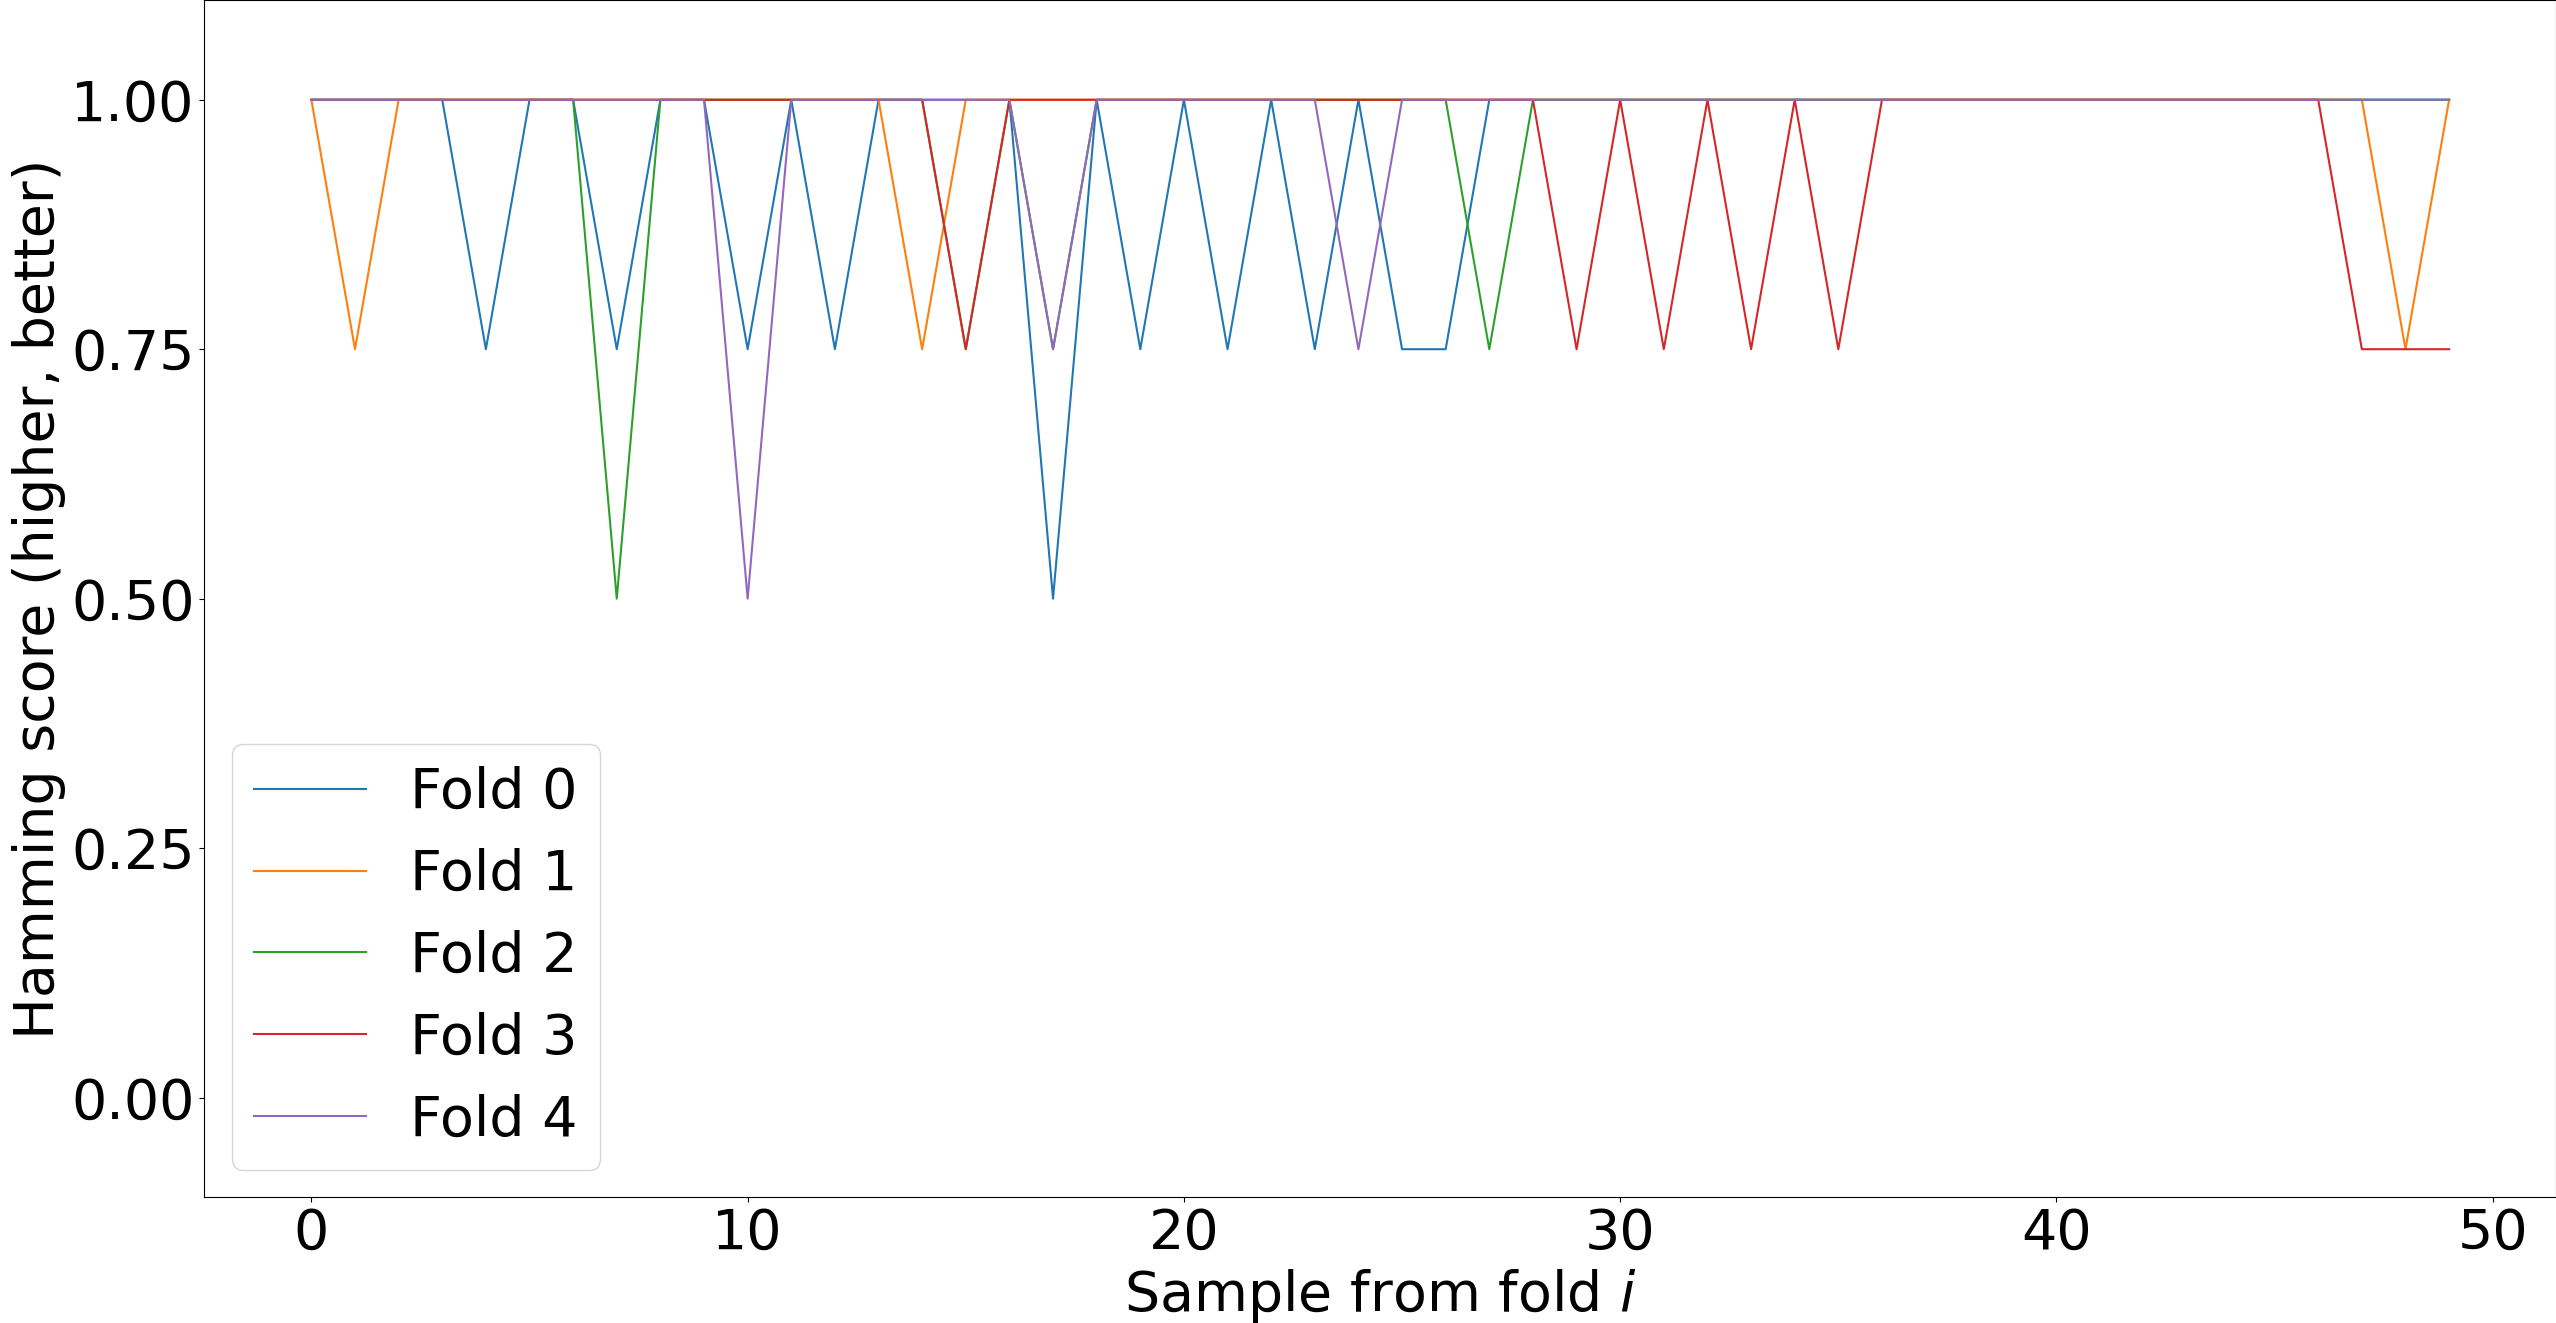
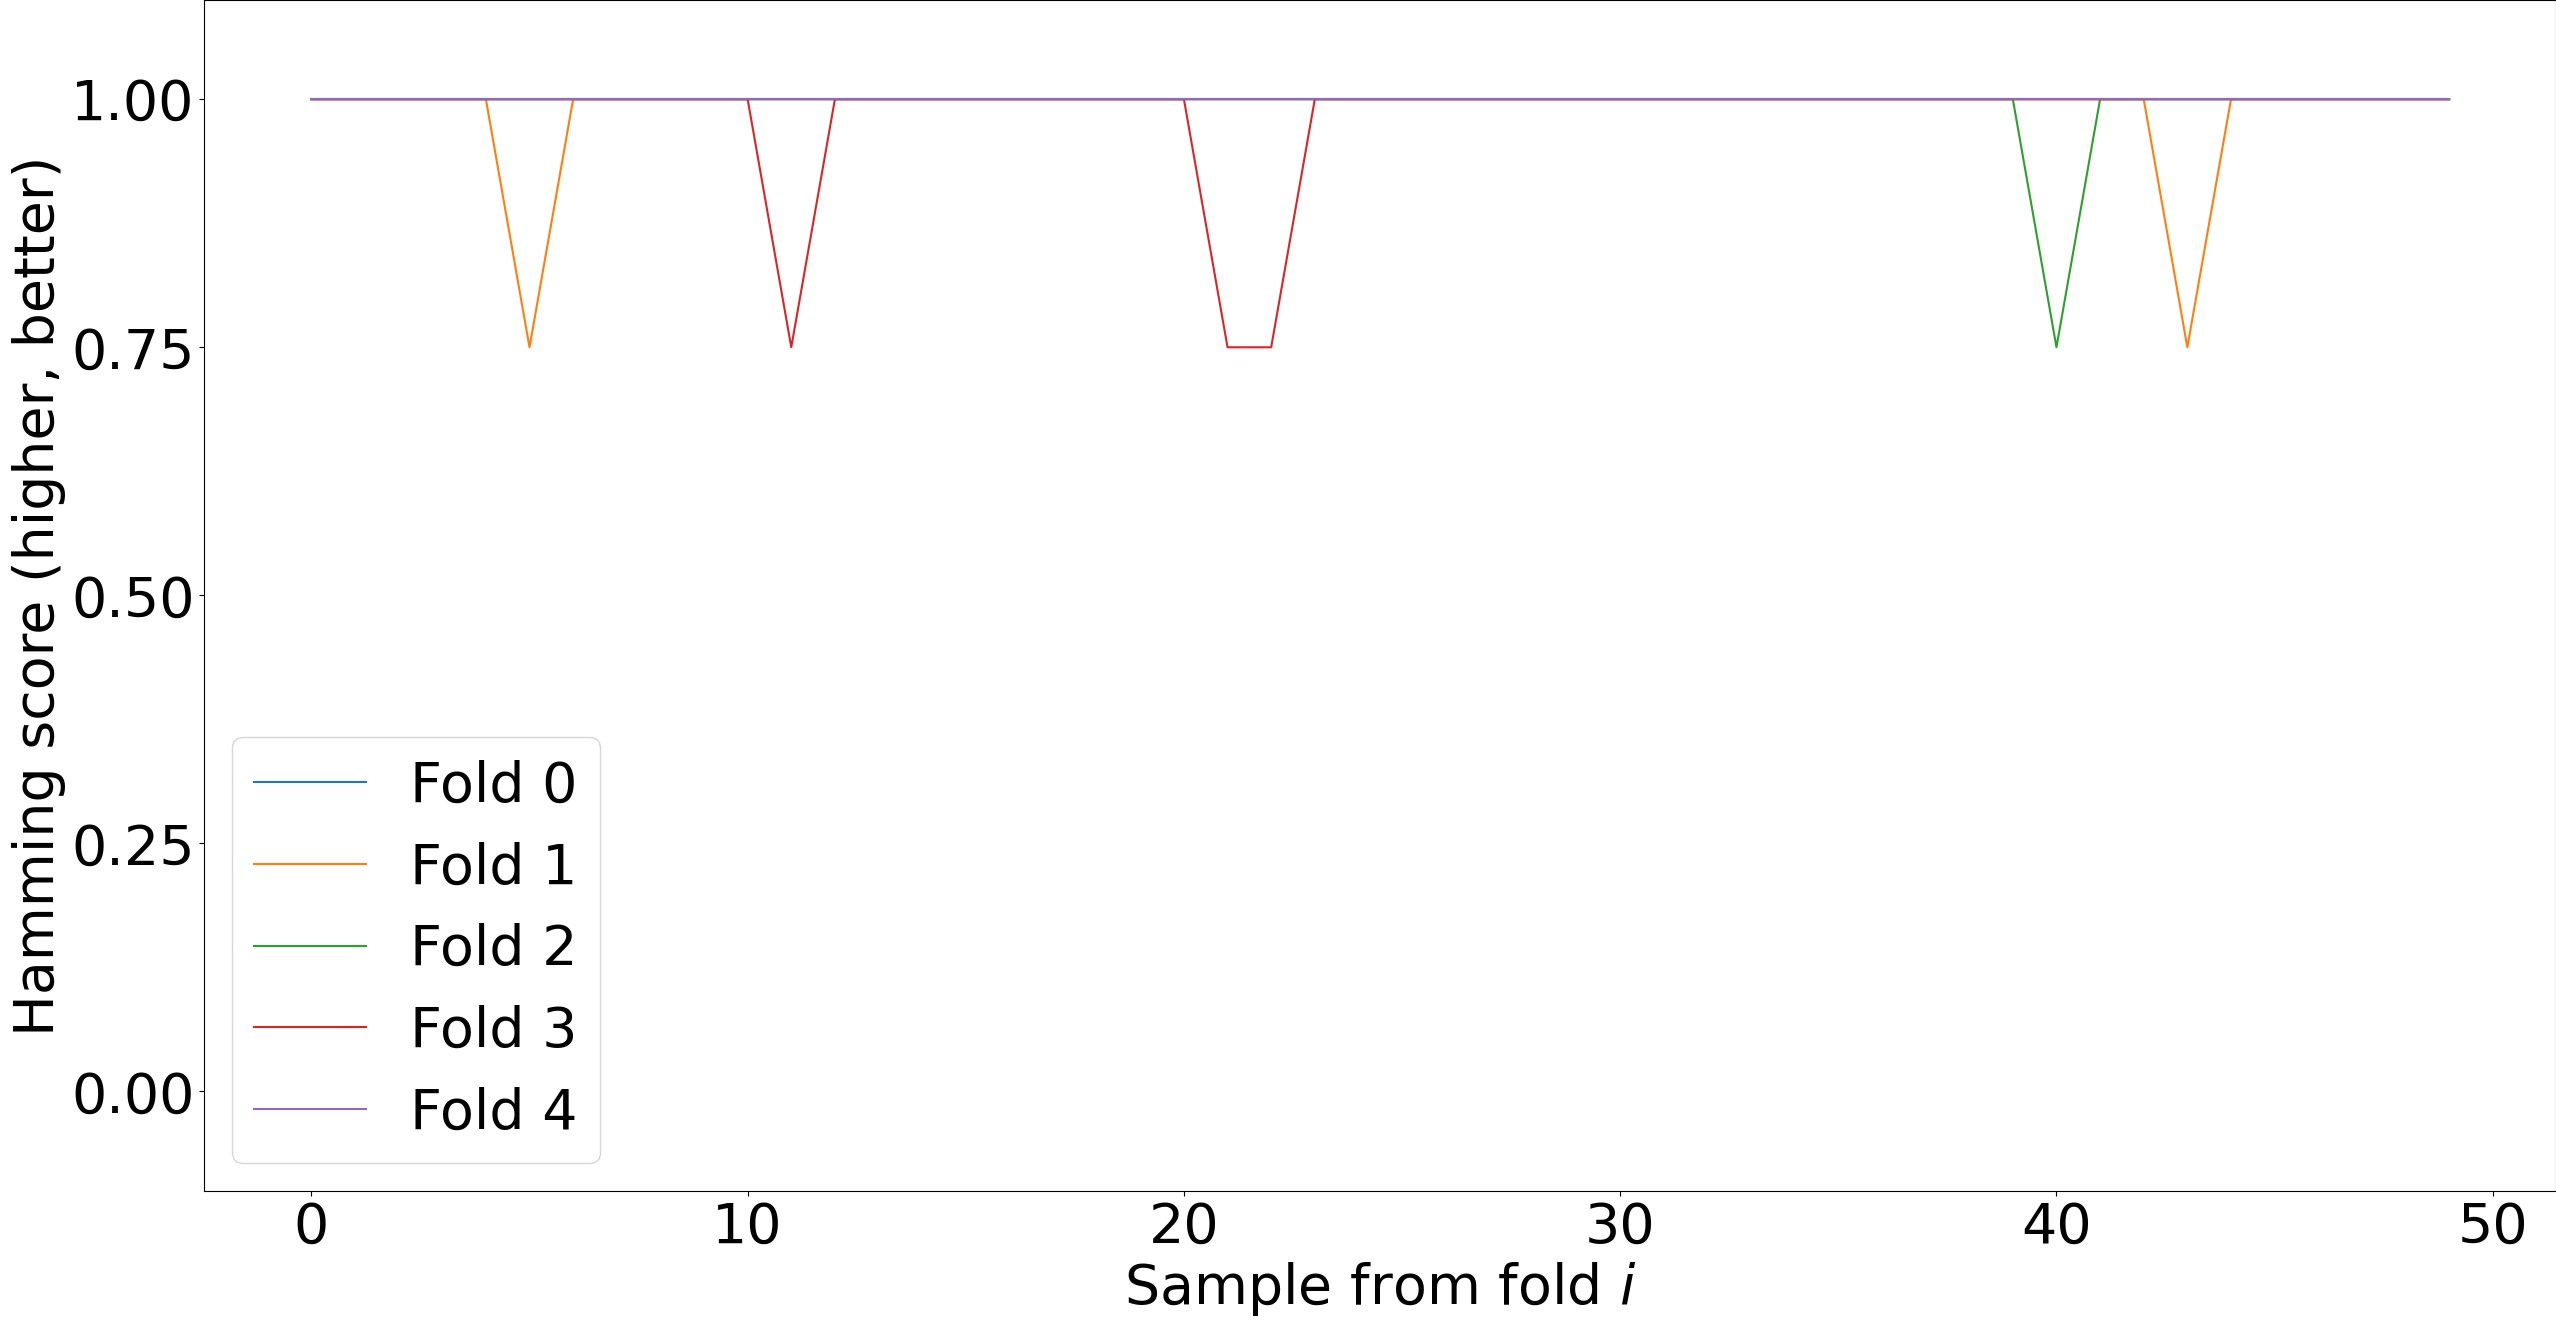
Changed some plots, added some random corrections to QLP

diff --git a/src/qlp.tex b/src/qlp.tex
@@ -410,7 +410,7 @@ In \Cref{fig:dt-qlp-hs}, we plotted the performance of the aggregate model, whic
 did when testing \tas\ for \qrp: A run of $5$-fold \cv, for each sample we computed $\hs$ and then
 plotted the point. On average the ensemble makes $2$ errors or less, on each sample, since the
 minimum accuracy is $0.5$, averaging the performance of all the folds we get a final Hamming score
-which is $0.95$ and with a standard deviation of $0.024$. Testing the performance of the aggregate
+which is $0.967$ and with a standard deviation of $0.051$. Testing the performance of the aggregate
 on the final blind-test, if we average the Hamming score on the $29$ samples, we get higher
 performance on average $0.966$ and a standard deviation $0.086$ of (this difference is probably
 due to the lower amount of data we are averaging on), the trained ensemble makes $4$ single errors
@@ -422,9 +422,11 @@ on the $116$ total labels ($4$ binary labels for $29$ samples) that it needs to 
 \end{figure}
 
 In \Cref{tbl:dt-errors} calculated the number of errors done by every model on all the testing folds
-to compare it better to alternatives. It's very interesting that the highest amount of errors came
-from the model built on coil $1$, which technically was the one that provided the highest possible
-accuracy.
+to compare it better to alternatives. Our supposition at the moment is that finding a better model for coil $3$ would make the performance of
+the ensemble better because, while we have been saying that the model is an aggregate of trees, we
+only inserted the bits in a prediction array. This entails that the stronger model is not making up
+for the errors made by the weaker classifiers (which is actually one of the reasons why \rfs\ are
+more powerful than single trees, cfr. \Cref{chp:ml}).
 \begin{table}[!ht]
 	\caption{Each column contains the errors done by the model built on the specific coil for
 	the specific testing fold, each fold contains $50$ samples.}\label{tbl:dt-errors}
@@ -437,23 +439,17 @@ accuracy.
 		\textbf{}                     & \textbf{Coil 0}    & \textbf{Coil 1} & \textbf{Coil 2} & \textbf{Coil 3}
 		\\
 		\midrule
-		\textsc{Fold 0}         & $2$           & $4$           & $1$            & $3$            \\
-		\textsc{Fold 1}         & $1$		& $2$		& $1$            & $2$		  \\
-		\textsc{Fold 2}		& $2$           & $3$		& $0$            & $2$            \\
-		\textsc{Fold 3}         & $9$           & $5$ 		& $1$            & $2$            \\
-		\textsc{Fold 4}         & $8$		& $0$           & $1$            & $3$            \\
+		\textsc{Fold 0}         & $2$           & $0$           & $0$            & $5$            \\
+		\textsc{Fold 1}         & $2$		& $3$		& $0$            & $3$		  \\
+		\textsc{Fold 2}		& $0$           & $0$		& $1$            & $4$            \\
+		\textsc{Fold 3}         & $2$           & $2$ 		& $2$            & $1$            \\
+		\textsc{Fold 4}         & $0$		& $3$           & $0$            & $3$            \\
 		\midrule
-		\textsc{total errors}	& $22$		& $14$		& $4$		& $12$
+		\textsc{total errors}	& $6$		& $8$		& $3$		& $16$
 		\\
 		\bottomrule
 	\end{tabular}
 \end{table}
-
-Our supposition at the moment is that finding a better model for coil $3$ would make the performance of
-the ensemble better because, while we have been saying that the model is an aggregate of trees, we
-only inserted the bits in a prediction array. This entails that the stronger model is not making up
-for the errors made by the weaker classifiers (which is actually one of the reasons why \rfs\ are
-more powerful than single trees, cfr. \Cref{chp:ml}).
 
 \subsection{Random forests}
 Similarly to what we just did for \dts\ we also evaluated the performance of a model containing one
@@ -535,11 +531,18 @@ There are a couple of very interesting takeaways:
 	      $2$, in the case of \svc\ the model was picked over \an.
 \end{itemize}
 
-In \Cref{fig:svc-hs} we plotted $\hs$ for the $5$ cross validation folds, as we did for \dts, in
+In \Cref{fig:svc-qlp-hs} we plotted $\hs$ for the $5$ cross validation folds, as we did for \dts, in
 \Cref{tbl:svc-err} we indicated the error done by each model on the $5$ folds and the total for each
 model. Clearly, while the \svc\ trained on \an performs way better than the others, the models
 mounted on the remaining coils have more modest performance. The average $\hs$ score for the \svc\
-is $0.968$ and its standard deviation is $0.013$.
+is $0.994$ and its standard deviation is $0.006$.
+\begin{figure}
+	\centering
+	\includegraphics[width=\linewidth]{img/svc_qlp_hs.png}
+	\caption{The Hamming score computed on every fold (for the $50$ samples therein contained),
+	fir \svcs. The lower reaching is the line the lower is going to be the accuracy.}
+	\label{fig:svc-qlp-hs}
+\end{figure}
 \begin{table}[!ht]
 	\caption{Description of the best \rf\ for every coil.}\label{tbl:svc-err}
 
@@ -551,23 +554,21 @@ is $0.968$ and its standard deviation is $0.013$.
 		\textbf{}                     & \textbf{Coil 0}    & \textbf{Coil 1} & \textbf{Coil 2} & \textbf{Coil 3}
 		\\
 		\midrule
-		\textsc{Fold 0}         & $0$           & $2$           & $2$            & $2$            \\
-		\textsc{Fold 1}         & $0$		& $2$		& $1$            & $1$		  \\
-		\textsc{Fold 2}		& $1$           & $5$		& $1$            & $4$            \\
-		\textsc{Fold 3}         & $0$           & $2$ 		& $2$            & $3$            \\
-		\textsc{Fold 4}         & $0$		& $1$           & $1$            & $2$            \\
+		\textsc{Fold 0}         & $0$           & $0$           & $0$            & $0$            \\
+		\textsc{Fold 1}         & $0$		& $0$		& $2$            & $0$		  \\
+		\textsc{Fold 2}		& $0$           & $0$		& $0$            & $1$            \\
+		\textsc{Fold 3}         & $1$           & $1$ 		& $1$            & $0$            \\
+		\textsc{Fold 4}         & $0$		& $0$           & $0$            & $0$            \\
 		\midrule
-		\textsc{total errors}	& $1$		& $12$		& $7$		& $12$
+		\textsc{total errors}	& $1$		& $1$		& $3$		& $1$
 		\\
 		\bottomrule
 	\end{tabular}
 \end{table}
 
-On the blind test set the \svc\ did $4$ errors, and had a final $\hs$ of average $0.966$ and
-standard deviation $0.086$. The performance for \svcs\ and \dts\ are not that far off, meaning that
-we might be hitting a performance ceiling.
-
-
+Despite the aggregate of \svcs\ performs much better than the aggregate of \dts, we see that both
+models make $4$ mistakes on the blind-test set \db. This leads us to say that we found a solid
+solution in \dts that could be further improved by using more advanced techniques.
 
 
 
